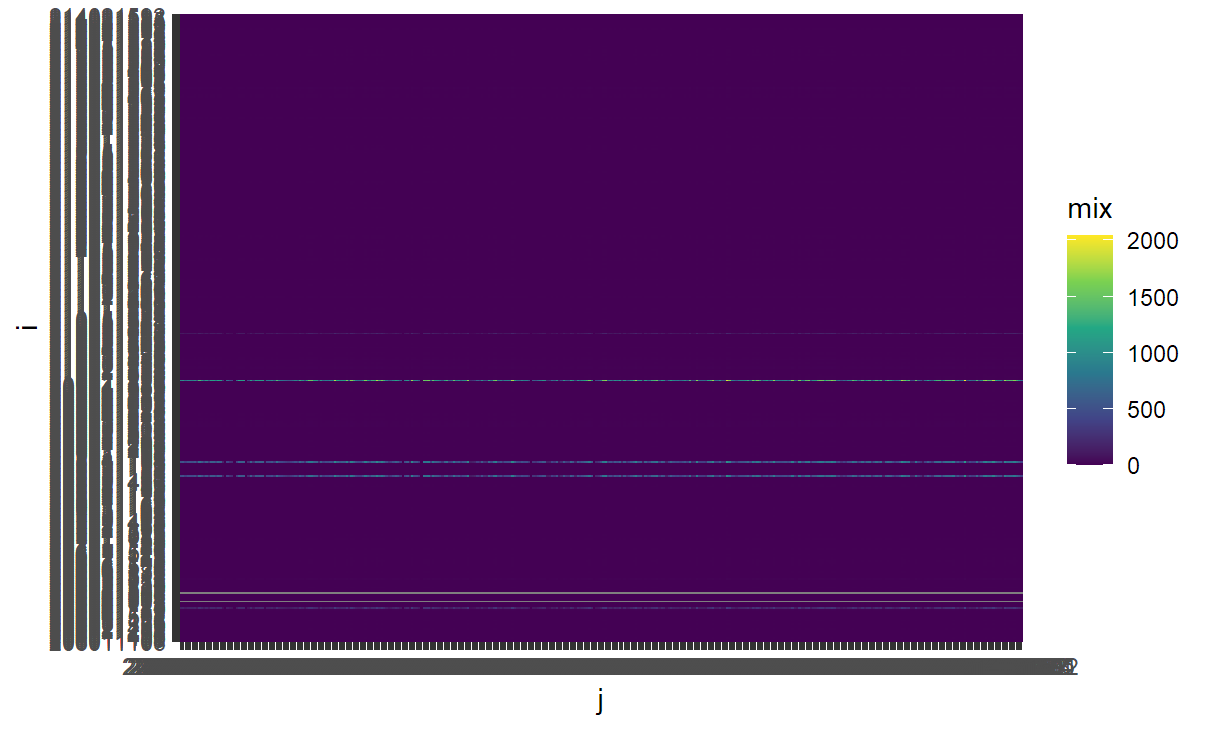
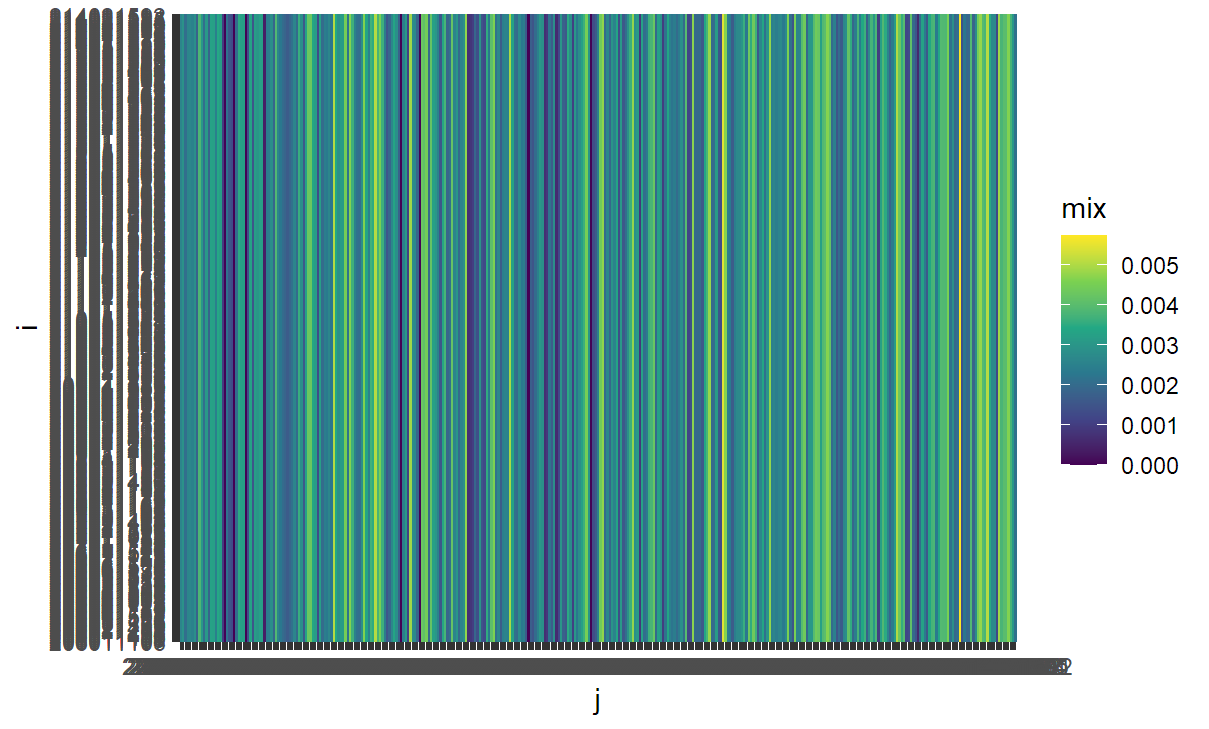
Ch3 update

diff --git a/papers/Manuscript/docs/04-Interventions.html b/papers/Manuscript/docs/04-Interventions.html
@@ -8,7 +8,7 @@
 
 <meta name="description" content="A thesis submitted for the degree of Graduate Diploma in Applied Statistics at The University of New England in 2023. School of Science and Technology.">
 
-<title>Hierarchical Spatial Structure in Compartmental Epidemiological models - 2&nbsp; Spatial Metapopulation Model</title>
+<title>Hierarchical Spatial Structure in Compartmental Epidemiological models - 4&nbsp; Chapter 4. Modelling intervention</title>
 <style>
 code{white-space: pre-wrap;}
 span.smallcaps{font-variant: small-caps;}
@@ -31,8 +31,8 @@ ul.task-list li input[type="checkbox"] {
 <script src="site_libs/quarto-search/fuse.min.js"></script>
 <script src="site_libs/quarto-search/quarto-search.js"></script>
 <meta name="quarto:offset" content="./">
-<link href="./03-CurrentStudy.html" rel="next">
-<link href="./01-IntroBackground.html" rel="prev">
+<link href="./refs.html" rel="next">
+<link href="./03-CurrentStudy.html" rel="prev">
 <script src="site_libs/quarto-html/quarto.js"></script>
 <script src="site_libs/quarto-html/popper.min.js"></script>
 <script src="site_libs/quarto-html/tippy.umd.min.js"></script>
@@ -62,22 +62,6 @@ ul.task-list li input[type="checkbox"] {
   }
 }</script>
 
-  <script>window.backupDefine = window.define; window.define = undefined;</script><script src="https://cdn.jsdelivr.net/npm/katex@0.15.1/dist/katex.min.js"></script>
-  <script>document.addEventListener("DOMContentLoaded", function () {
- var mathElements = document.getElementsByClassName("math");
- var macros = [];
- for (var i = 0; i < mathElements.length; i++) {
-  var texText = mathElements[i].firstChild;
-  if (mathElements[i].tagName == "SPAN") {
-   katex.render(texText.data, mathElements[i], {
-    displayMode: mathElements[i].classList.contains('display'),
-    throwOnError: false,
-    macros: macros,
-    fleqn: false
-   });
-}}});
-  </script>
-  <script>window.define = window.backupDefine; window.backupDefine = undefined;</script><link rel="stylesheet" href="https://cdn.jsdelivr.net/npm/katex@0.15.1/dist/katex.min.css">
 
 </head>
 
@@ -90,7 +74,7 @@ ul.task-list li input[type="checkbox"] {
       <button type="button" class="quarto-btn-toggle btn" data-bs-toggle="collapse" data-bs-target="#quarto-sidebar,#quarto-sidebar-glass" aria-controls="quarto-sidebar" aria-expanded="false" aria-label="Toggle sidebar navigation" onclick="if (window.quartoToggleHeadroom) { window.quartoToggleHeadroom(); }">
         <i class="bi bi-layout-text-sidebar-reverse"></i>
       </button>
-      <nav class="quarto-page-breadcrumbs" aria-label="breadcrumb"><ol class="breadcrumb"><li class="breadcrumb-item"><a href="./02-Metapopulation Models.html"><span class="chapter-number">2</span>&nbsp; <span class="chapter-title">Spatial Metapopulation Model</span></a></li></ol></nav>
+      <nav class="quarto-page-breadcrumbs" aria-label="breadcrumb"><ol class="breadcrumb"><li class="breadcrumb-item"><a href="./04-Interventions.html"><span class="chapter-number">4</span>&nbsp; <span class="chapter-title">Chapter 4. Modelling intervention</span></a></li></ol></nav>
       <a class="flex-grow-1" role="button" data-bs-toggle="collapse" data-bs-target="#quarto-sidebar,#quarto-sidebar-glass" aria-controls="quarto-sidebar" aria-expanded="false" aria-label="Toggle sidebar navigation" onclick="if (window.quartoToggleHeadroom) { window.quartoToggleHeadroom(); }">      
       </a>
       <button type="button" class="btn quarto-search-button" aria-label="Search" onclick="window.quartoOpenSearch();">
@@ -147,7 +131,7 @@ ul.task-list li input[type="checkbox"] {
 </li>
         <li class="sidebar-item">
   <div class="sidebar-item-container"> 
-  <a href="./02-Metapopulation Models.html" class="sidebar-item-text sidebar-link active">
+  <a href="./02-Metapopulation Models.html" class="sidebar-item-text sidebar-link">
  <span class="menu-text"><span class="chapter-number">2</span>&nbsp; <span class="chapter-title">Spatial Metapopulation Model</span></span></a>
   </div>
 </li>
@@ -159,7 +143,7 @@ ul.task-list li input[type="checkbox"] {
 </li>
         <li class="sidebar-item">
   <div class="sidebar-item-container"> 
-  <a href="./04-Interventions.html" class="sidebar-item-text sidebar-link">
+  <a href="./04-Interventions.html" class="sidebar-item-text sidebar-link active">
  <span class="menu-text"><span class="chapter-number">4</span>&nbsp; <span class="chapter-title">Chapter 4. Modelling intervention</span></span></a>
   </div>
 </li>
@@ -192,23 +176,14 @@ ul.task-list li input[type="checkbox"] {
 <div id="quarto-sidebar-glass" data-bs-toggle="collapse" data-bs-target="#quarto-sidebar,#quarto-sidebar-glass"></div>
 <!-- margin-sidebar -->
     <div id="quarto-margin-sidebar" class="sidebar margin-sidebar">
-        <nav id="TOC" role="doc-toc" class="toc-active">
-    <h2 id="toc-title"><b>Sections</b></h2>
-   
-  <ul>
-  <li><a href="#specification" id="toc-specification" class="nav-link active" data-scroll-target="#specification">Specification</a></li>
-  <li><a href="#construction-of-mixing-matrix" id="toc-construction-of-mixing-matrix" class="nav-link" data-scroll-target="#construction-of-mixing-matrix">Construction of mixing matrix</a></li>
-  <li><a href="#implementation" id="toc-implementation" class="nav-link" data-scroll-target="#implementation">Implementation</a></li>
-  <li><a href="#sec-MossGmelb" id="toc-sec-MossGmelb" class="nav-link" data-scroll-target="#sec-MossGmelb"><span class="header-section-number">2.1</span> Example: Greater Melbourne Area Spatial Metapopulation model</a></li>
-  </ul>
-</nav>
+        
     </div>
 <!-- main -->
 <main class="content" id="quarto-document-content">
 
 <header id="title-block-header" class="quarto-title-block default">
 <div class="quarto-title">
-<h1 class="title"><span id="sec-MPMspec" class="quarto-section-identifier"><span class="chapter-number">2</span>&nbsp; <span class="chapter-title">Spatial Metapopulation Model</span></span></h1>
+<h1 class="title"><span class="chapter-number">4</span>&nbsp; <span class="chapter-title">Chapter 4. Modelling intervention</span></h1>
 </div>
 
 
@@ -223,71 +198,8 @@ ul.task-list li input[type="checkbox"] {
 
 </header>
 
-<section id="specification" class="level3">
-<h3 class="anchored" data-anchor-id="specification">Specification</h3>
-<p>We employ a basic <span class="math inline">SIR</span> compartmental model, assuming no births and deaths, with a total of <span class="math inline">N</span> individuals. <span id="eq-ConstantTotalPopulation"><span class="math display"> S + I  + R = N \tag{2.1}</span></span></p>
-<p>We divide the population into <span class="math inline">n</span> connected sub-populations,hereafter ‘patches’, with <span class="math inline">N_i</span> denoting the population of patch <span class="math inline">i</span> (note that <span class="math inline">N = \sum\limits_{i=1}^{n}N_i</span>).</p>
-<p>Let <span class="math inline">S_i</span>, <span class="math inline">I_i</span>, <span class="math inline">R_i</span> respectively denote the number of susceptible, infected and recovered individuals in Patch <span class="math inline">i</span> (noting also that <span class="math inline">N_i = S_i + I_i + R_i</span>). Also, since <span class="math inline">R_i = N_i - S_i - I_i</span>, we will not explicitly show <span class="math inline">R_i</span> in the equations hereafter (thought this could be calculated at any time)</p>
-<p>Individuals coming into contact with an infective, whether within or without patch, become infected at a rate <span class="math inline">\beta</span>.</p>
-<p>While individuals do not migrate between patches, infectives from patch <span class="math inline">i</span> infect - individuals from <span class="math inline">j</span> with a proportion <span class="math inline">\phi_{ij}</span>.</p>
-<p>The force of infection in patch <span class="math inline">i</span> given by <span class="math display">
-\Lambda_i = \beta \sum\limits_{j}^{n}\phi_{ij}I_j
-</span></p>
-<p>And thus the force of infection vector <span id="eq-FOIv"><span class="math display">\Lambda = \beta I \Phi \tag{2.2}</span></span></p>
-<p>Where <span class="math inline">I</span> is the vector of patch infection counts, and <span class="math inline">\Phi</span> is the mixing matrix.</p>
-</section>
-<section id="construction-of-mixing-matrix" class="level3">
-<h3 class="anchored" data-anchor-id="construction-of-mixing-matrix">Construction of mixing matrix</h3>
-<p>Instead of constructing the mixing matrix from empirical OD data, we specified the matrix analytically to encode the hierarchical structure of the SA classification.</p>
-<p>The main constraint employed was that patches within the same level <span class="math inline">L</span> SA region would mix together more strongly than those not. Nevertheless, because of a higher level enclosing group (in the case of Melbourne, the state level grouping), we only need to specify a series of coefficients which correspond to the lowest level grouping in which two patches co-occur. Furthermore, to ensure the matrix rows sum to one, mixing is also proportional to the fraction of the population of the grouping region comprised by the patch.</p>
-<p>for any two patches <span class="math inline">i</span> and <span class="math inline">j</span>,</p>
-<p><span class="math inline">i, j</span> are patches</p>
-<p><span class="math inline">S_{i}^{L}</span> is the set of patches in level <span class="math inline">L</span> <span class="math inline">N_i</span> is the population of <span class="math inline">i</span> <span class="math inline">N_{i}^{L}</span> is the population of <span class="math inline">S_{i}^{L}</span> <span class="math inline">\xi^{L}(\delta)</span> is the proportion of mixing that occurs within <span class="math inline">S_{i}^{L}</span> but not<span class="math inline">S_{i}^{L-1}</span></p>
-<p>The intra level mixing coefficients <span class="math inline">\xi_L</span> comprise the vector <span class="math inline">\xi</span>. Constraining the elements of <span class="math inline">\xi</span> s.t. <span class="math inline">\sum\limits_{L = 1}^{L} \xi_i = 1</span> (where <span class="math inline">L</span> is the highest level grouping) ensures the rows of the mixing matrix sum to unity.<br>
-</p>
-<p>-More verbosity</p>
-<p>-Be more explicit about SA Levels</p>
-<p>-Mention Mixing with PPMM</p>
-</section>
-<section id="implementation" class="level3">
-<h3 class="anchored" data-anchor-id="implementation">Implementation</h3>
-<p>The model was implemented as continuous time markov chain, with discrete state variables <span class="math display">S_{i}(t), I_{i}(t) \in {0,1,2,...N_{i}}</span> where <span class="math inline">t\in [0, \infty)</span></p>
-<p>at <span class="math inline">t = 0</span>, a randomly selected patch, <span class="math inline">i</span>, is seeded with <span class="math inline">I = 10</span> invectives, such that <span class="math display">S_{i}(0) = N_{i} - 10, I_{i}(0) = 10</span> and the remaining patches are disease free <span class="math display">S_j(0) = N_j, I_j(0) =0, i\neq j </span></p>
-<p>at <span class="math inline">t&gt;0</span> possible changes in state (‘events’) are infection at a patch <span class="math inline">i</span> (if <span class="math inline">S_i \geq 1</span> &amp; <span class="math inline">I \geq 1</span>), or recovery at patch <span class="math inline">i</span> (if <span class="math inline">I_i \geq 1</span>). Rates for these events are given in <a href="#tbl-EventRates">Table&nbsp;<span>2.1</span></a></p>
-<div id="tbl-EventRates" class="anchored">
-<table class="table">
-<caption>Table&nbsp;2.1: Event Rates</caption>
-<thead>
-<tr class="header">
-<th>Event</th>
-<th>State change</th>
-<th>Rate</th>
-</tr>
-</thead>
-<tbody>
-<tr class="odd">
-<td>Infection in patch <span class="math inline">i</span></td>
-<td><span class="math inline">\{S_i -1, I_i +1\}</span></td>
-<td><span class="math inline">S_i \Lambda_i</span></td>
-</tr>
-<tr class="even">
-<td>Recovery in patch <span class="math inline">i</span></td>
-<td><span class="math inline">\{I_i - 1\}</span></td>
-<td><span class="math inline">\gamma I_i</span></td>
-</tr>
-</tbody>
-</table>
-</div>
-<p>Due to the Markov property, events occur after a exponentially distributed time with parameter equal to the sum of all event rates <span class="math display">\Delta t \sim Exp(\lambda)</span> where</p>
-<p><span class="math inline">\lambda = \sum\limits_{i}^{n}S_i \Lambda_i + \gamma I_i</span></p>
-<p>at <span class="math inline">t + \delta t</span>, a random event from <a href="#tbl-EventRates">Table&nbsp;<span>2.1</span></a> will occur with probability directly proportional to it’s rate.</p>
-<p>When the system enters a disease free equilibrium state (i.e.&nbsp;<span class="math inline">I = 0</span>), the implementation is complete.</p>
-</section>
-<section id="sec-MossGmelb" class="level2" data-number="2.1">
-<h2 data-number="2.1" class="anchored" data-anchor-id="sec-MossGmelb"><span class="header-section-number">2.1</span> Example: Greater Melbourne Area Spatial Metapopulation model</h2>
 
 
-</section>
 
 </main> <!-- /main -->
 <script id="quarto-html-after-body" type="application/javascript">
@@ -525,13 +437,13 @@ window.document.addEventListener("DOMContentLoaded", function (event) {
 </script>
 <nav class="page-navigation">
   <div class="nav-page nav-page-previous">
-      <a href="./01-IntroBackground.html" class="pagination-link">
-        <i class="bi bi-arrow-left-short"></i> <span class="nav-page-text"><span class="chapter-number">1</span>&nbsp; <span class="chapter-title">Introduction &amp; Background</span></span>
+      <a href="./03-CurrentStudy.html" class="pagination-link">
+        <i class="bi bi-arrow-left-short"></i> <span class="nav-page-text"><span class="chapter-number">3</span>&nbsp; <span class="chapter-title">Hierarchically structured spatial metapopulation models</span></span>
       </a>          
   </div>
   <div class="nav-page nav-page-next">
-      <a href="./03-CurrentStudy.html" class="pagination-link">
-        <span class="nav-page-text"><span class="chapter-number">3</span>&nbsp; <span class="chapter-title">Hierarchically structured spatial metapopulation models</span></span> <i class="bi bi-arrow-right-short"></i>
+      <a href="./refs.html" class="pagination-link">
+        <span class="nav-page-text">Bibliography</span> <i class="bi bi-arrow-right-short"></i>
       </a>
   </div>
 </nav>

diff --git a/papers/Manuscript/docs/03-CurrentStudy.html b/papers/Manuscript/docs/03-CurrentStudy.html
@@ -50,7 +50,7 @@ div.csl-indent {
 <script src="site_libs/quarto-search/fuse.min.js"></script>
 <script src="site_libs/quarto-search/quarto-search.js"></script>
 <meta name="quarto:offset" content="./">
-<link href="./refs.html" rel="next">
+<link href="./04-Interventions.html" rel="next">
 <link href="./02-Metapopulation Models.html" rel="prev">
 <script src="site_libs/quarto-html/quarto.js"></script>
 <script src="site_libs/quarto-html/popper.min.js"></script>
@@ -178,6 +178,12 @@ div.csl-indent {
 </li>
         <li class="sidebar-item">
   <div class="sidebar-item-container"> 
+  <a href="./04-Interventions.html" class="sidebar-item-text sidebar-link">
+ <span class="menu-text"><span class="chapter-number">4</span>&nbsp; <span class="chapter-title">Chapter 4. Modelling intervention</span></span></a>
+  </div>
+</li>
+        <li class="sidebar-item">
+  <div class="sidebar-item-container"> 
   <a href="./refs.html" class="sidebar-item-text sidebar-link">
  <span class="menu-text">Bibliography</span></a>
   </div>
@@ -295,64 +301,50 @@ div.csl-indent {
 <h4 class="anchored" data-anchor-id="population-size-based-heterogenous-mixing">Population size based heterogenous mixing</h4>
 <p>The resulting mixing matrices will be of different sizes (i.e.&nbsp;40 SA3 patches vs 361 SA2 patches for the Greater Melbourne region), and to ensure equivalent representation of aggregate levels, patch population size can be used to scale mixing coefficients, i.e.. for two patches <span class="math inline">i</span> and <span class="math inline">j</span> the mixing coefficient <span class="math inline">\phi_{i,j}</span>:</p>
 <p><span class="math display">
-\phi_{ij} = N_j/N_{i}
+\phi_{ij} = N_j/N_{tot}
 </span></p>
 <p>Which gives mixing matrices shown in <span class="quarto-unresolved-ref">?fig-GMelbPopMM</span></p>
 <div class="cell">
-<div class="cell-output cell-output-stderr">
-<pre><code>Rows: 361 Columns: 3
-── Column specification ────────────────────────────────────────────────────────
-Delimiter: ","
-chr (1): SA2_Name
-dbl (2): SA2_Code, Pop
-
-ℹ Use `spec()` to retrieve the full column specification for this data.
-ℹ Specify the column types or set `show_col_types = FALSE` to quiet this message.
-Rows: 40 Columns: 3
-── Column specification ────────────────────────────────────────────────────────
-Delimiter: ","
-chr (1): SA3_Name
-dbl (2): SA3_Code, SA3_pop
-
-ℹ Use `spec()` to retrieve the full column specification for this data.
-ℹ Specify the column types or set `show_col_types = FALSE` to quiet this message.
-Rows: 9 Columns: 3
-── Column specification ────────────────────────────────────────────────────────
-Delimiter: ","
-chr (1): SA4_Name
-dbl (2): SA4_Code, SA4_pop
-
-ℹ Use `spec()` to retrieve the full column specification for this data.
-ℹ Specify the column types or set `show_col_types = FALSE` to quiet this message.</code></pre>
-</div>
 <div class="cell-output cell-output-stdout">
 <pre><code>[[1]]</code></pre>
-</div>
-<div class="cell-output-display">
-<p><img src="03-CurrentStudy_files/figure-html/unnamed-chunk-5-1.png" class="img-fluid" width="604"></p>
 </div>
 <div class="cell-output cell-output-stdout">
 <pre><code>
 [[2]]</code></pre>
-</div>
-<div class="cell-output-display">
-<p><img src="03-CurrentStudy_files/figure-html/unnamed-chunk-5-2.png" class="img-fluid" width="604"></p>
 </div>
 <div class="cell-output cell-output-stdout">
 <pre><code>
 [[3]]</code></pre>
 </div>
 <div class="cell-output-display">
-<p><img src="03-CurrentStudy_files/figure-html/unnamed-chunk-5-3.png" class="img-fluid" width="604"></p>
+<div id="fig-GMelbPopMM-1" class="quarto-figure quarto-figure-center anchored">
+<figure class="figure">
+<p><img src="03-CurrentStudy_files/figure-html/fig-GMelbPopMM-1.png" class="img-fluid figure-img" width="604"></p>
+<p></p><figcaption class="figure-caption">Figure&nbsp;3.4: <strong>?(caption)</strong></figcaption><p></p>
+</figure>
+</div>
+</div>
+<div class="cell-output-display">
+<div id="fig-GMelbPopMM-2" class="quarto-figure quarto-figure-center anchored">
+<figure class="figure">
+<p><img src="03-CurrentStudy_files/figure-html/fig-GMelbPopMM-2.png" class="img-fluid figure-img" width="604"></p>
+<p></p><figcaption class="figure-caption">Figure&nbsp;3.5: <strong>?(caption)</strong></figcaption><p></p>
+</figure>
+</div>
+</div>
+<div class="cell-output-display">
+<div id="fig-GMelbPopMM-3" class="quarto-figure quarto-figure-center anchored">
+<figure class="figure">
+<p><img src="03-CurrentStudy_files/figure-html/fig-GMelbPopMM-3.png" class="img-fluid figure-img" width="604"></p>
+<p></p><figcaption class="figure-caption">Figure&nbsp;3.6: <strong>?(caption)</strong></figcaption><p></p>
+</figure>
+</div>
 </div>
 </div>
 <p>We can implement a metapopulation model using these mixing matrices as described in chapter <a href="02-Metapopulation Models.html"><span>Chapter&nbsp;2</span></a>, to briefly summarise:</p>
 <section id="results-equivalent-models-at-different-spatial-resolution" class="level5">
 <h5 class="anchored" data-anchor-id="results-equivalent-models-at-different-spatial-resolution">Results: equivalent models at different spatial resolution</h5>
 <p>-total size -peak size -Duration of pop prop models with SA2 SA3 SA4 homogeneous patches - Expect equivalence</p>
-<p>To implement this, we posit two main constraints on mixing between patches:</p>
-<p>1. For a given level of spatial structure,(e.g.&nbsp;SA2, SA3, SA4 etc.), individuals from patches within the same region will have a higher probability of mixing than will than will those from patches in different regions.</p>
-<p>2. This mixing will be proportional to the population size</p>
 </section>
 </section>
 <section id="hierarchical-structure" class="level4">
@@ -370,7 +362,7 @@ j \in S_{i}^{L}
 <div id="fig-Example_region" class="quarto-figure quarto-figure-center anchored">
 <figure class="figure">
 <p><img src="03-CurrentStudy_files/figure-html/fig-Example_region-1.png" class="img-fluid figure-img" width="604"></p>
-<p></p><figcaption class="figure-caption">Figure&nbsp;3.4: <strong>?(caption)</strong></figcaption><p></p>
+<p></p><figcaption class="figure-caption">Figure&nbsp;3.7: <strong>?(caption)</strong></figcaption><p></p>
 </figure>
 </div>
 </div>
@@ -383,41 +375,53 @@ M_{i,j} = \frac{\xi_{SA3}}{N_{i}^{SA3} - N_{i}^{SA2}} = \frac{\frac{1}{4}}{3 - 1
 M_{i,j} = \frac{\xi_{SA4}}{N_{i}^{SA4} - N_{i}^{SA3}} = \frac{\frac{1}{4}}{5 - 3} = \frac{1}{8}
 </span> Finally when <span class="math inline">j</span> is a patch outside the <code>Inner Melbourne</code> SA4, like those in <code>West Melbourne</code>SA4 <span class="math display">
 M_{i,j} = \frac{\xi_{SA5}}{N_{i}^{SA5} - N_{i}^{SA4}} = \frac{\frac{1}{4}}{7 - 3} = \frac{1}{16}
-</span> thus for the row <span class="math inline">M_{i}</span>, representing the mixing of individuals from Kensington, <span class="math display">
-\sum\limits_{j}M_{j}= \frac{1}{4} +\frac{1}{8} + \frac{1}{8} +\frac{1}{8} + \frac{1}{8} + \frac{1}{8} + \frac{1}{8} = 1
-</span></p>
-<p>repeating this for all other patches <span class="math inline">i</span>, gives the mixing matrix represented in <a href="#fig-egMM">Figure&nbsp;<span>3.5</span></a></p>
+</span> thus for the row <span class="math inline">M_{i}</span>, representing the mixing of individuals from Kensington, $ sum<em>{j}M</em>{j}= + + + + + + = 1$ as desired. Repeating this for all patches <span class="math inline">i</span>, gives the mixing matrix represented in <a href="#fig-egMM">Figure&nbsp;<span>3.8</span></a></p>
 <div class="cell" data-caption="Hierarchical Mixing matrix for the example region shown in @fig-Example_region">
 <div class="cell-output-display">
 <div id="fig-egMM" class="quarto-figure quarto-figure-center anchored">
 <figure class="figure">
 <p><img src="03-CurrentStudy_files/figure-html/fig-egMM-1.png" class="img-fluid figure-img" width="604"></p>
-<p></p><figcaption class="figure-caption">Figure&nbsp;3.5: <strong>?(caption)</strong></figcaption><p></p>
+<p></p><figcaption class="figure-caption">Figure&nbsp;3.8: <strong>?(caption)</strong></figcaption><p></p>
 </figure>
 </div>
 </div>
 </div>
-<p>Applying this process to the whole GMGCCSA yields the mixing matrices presented in figure <span class="citation" data-cites="GCC_HMM">(<a href="refs.html#ref-GCC_HMM" role="doc-biblioref"><strong>GCC_HMM?</strong></a>)</span></p>
+<p>Applying this process to the whole GMGCCSA yields the mixing matrices presented in figure <span class="quarto-unresolved-ref">?fig-GCC_HMM</span></p>
 <div class="cell">
 <div class="cell-output cell-output-stdout">
 <pre><code>$SA2</code></pre>
 </div>
-<div class="cell-output-display">
-<p><img src="03-CurrentStudy_files/figure-html/unnamed-chunk-9-1.png" class="img-fluid" width="604"></p>
-</div>
 <div class="cell-output cell-output-stdout">
 <pre><code>
 $SA3</code></pre>
-</div>
-<div class="cell-output-display">
-<p><img src="03-CurrentStudy_files/figure-html/unnamed-chunk-9-2.png" class="img-fluid" width="604"></p>
 </div>
 <div class="cell-output cell-output-stdout">
 <pre><code>
 $SA4</code></pre>
 </div>
 <div class="cell-output-display">
-<p><img src="03-CurrentStudy_files/figure-html/unnamed-chunk-9-3.png" class="img-fluid" width="604"></p>
+<div id="fig-GCC_HMM-1" class="quarto-figure quarto-figure-center anchored">
+<figure class="figure">
+<p><img src="03-CurrentStudy_files/figure-html/fig-GCC_HMM-1.png" class="img-fluid figure-img" width="604"></p>
+<p></p><figcaption class="figure-caption">Figure&nbsp;3.9: <strong>?(caption)</strong></figcaption><p></p>
+</figure>
+</div>
+</div>
+<div class="cell-output-display">
+<div id="fig-GCC_HMM-2" class="quarto-figure quarto-figure-center anchored">
+<figure class="figure">
+<p><img src="03-CurrentStudy_files/figure-html/fig-GCC_HMM-2.png" class="img-fluid figure-img" width="604"></p>
+<p></p><figcaption class="figure-caption">Figure&nbsp;3.10: <strong>?(caption)</strong></figcaption><p></p>
+</figure>
+</div>
+</div>
+<div class="cell-output-display">
+<div id="fig-GCC_HMM-3" class="quarto-figure quarto-figure-center anchored">
+<figure class="figure">
+<p><img src="03-CurrentStudy_files/figure-html/fig-GCC_HMM-3.png" class="img-fluid figure-img" width="604"></p>
+<p></p><figcaption class="figure-caption">Figure&nbsp;3.11: <strong>?(caption)</strong></figcaption><p></p>
+</figure>
+</div>
 </div>
 </div>
 
@@ -672,8 +676,8 @@ window.document.addEventListener("DOMContentLoaded", function (event) {
       </a>          
   </div>
   <div class="nav-page nav-page-next">
-      <a href="./refs.html" class="pagination-link">
-        <span class="nav-page-text">Bibliography</span> <i class="bi bi-arrow-right-short"></i>
+      <a href="./04-Interventions.html" class="pagination-link">
+        <span class="nav-page-text"><span class="chapter-number">4</span>&nbsp; <span class="chapter-title">Chapter 4. Modelling intervention</span></span> <i class="bi bi-arrow-right-short"></i>
       </a>
   </div>
 </nav>
